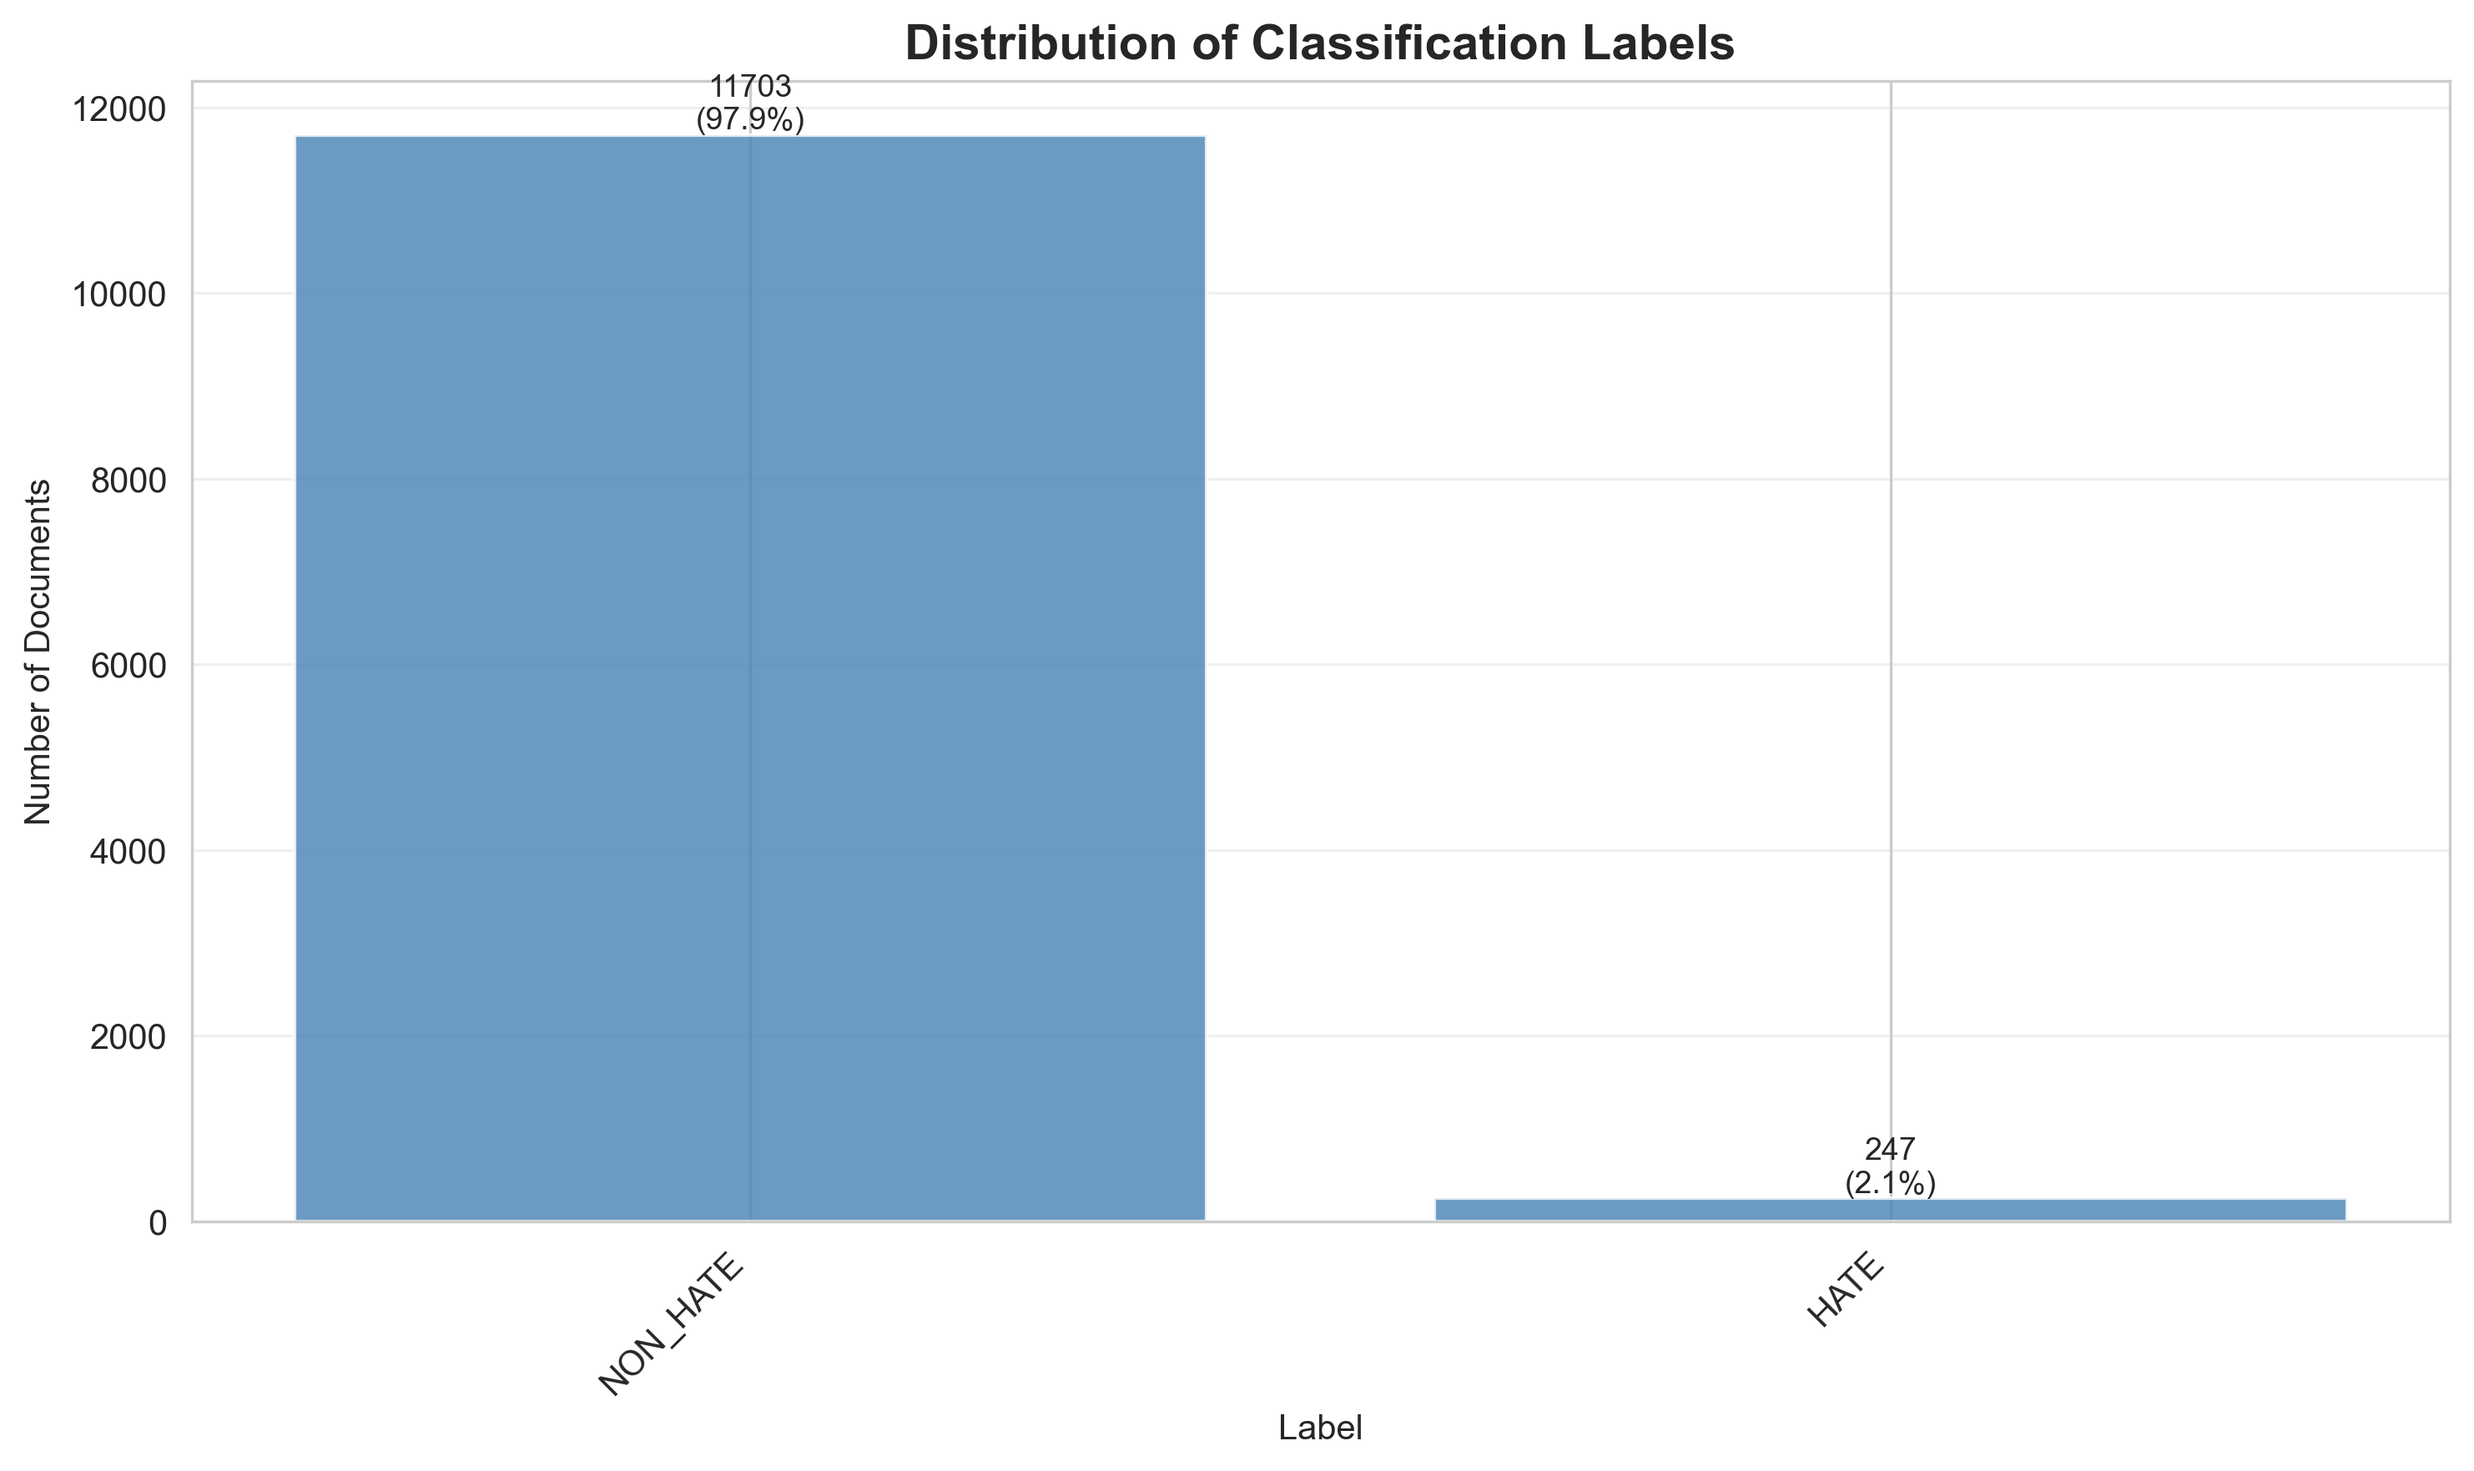
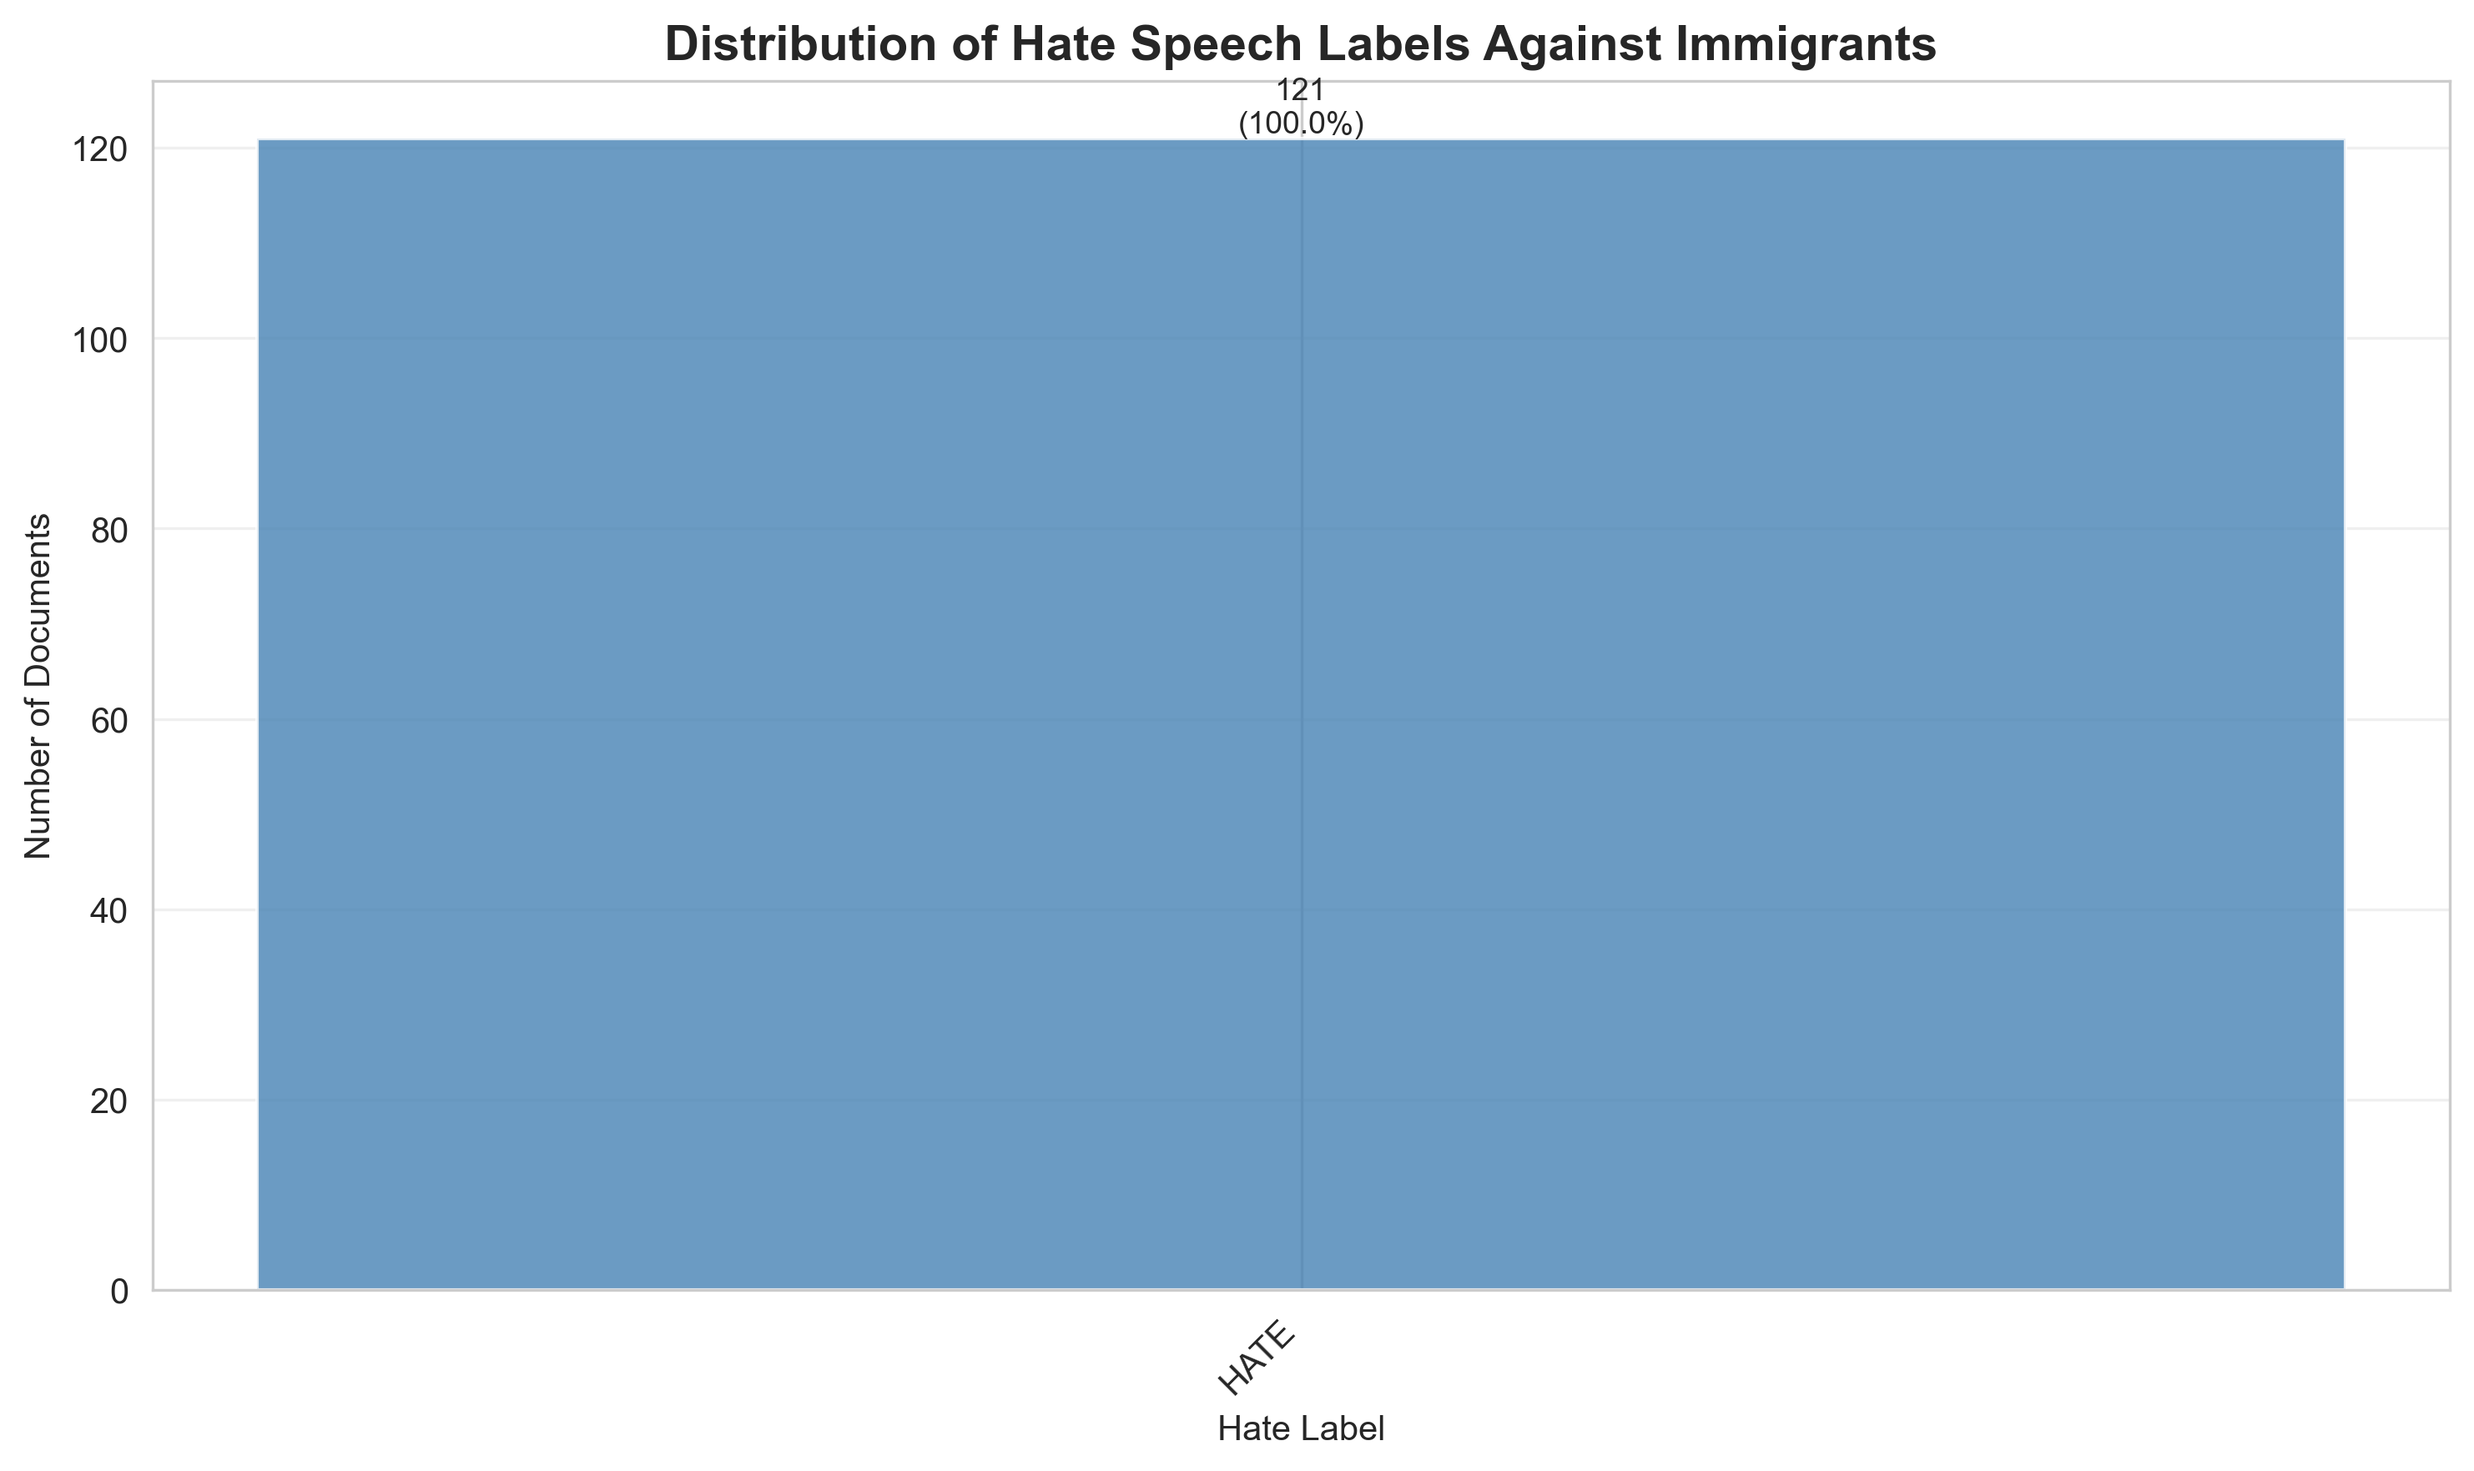
Hate speech against immigrants and political party mentions visualised

diff --git a/BERT_HessicherLandtag/src/visualise_results_immigrants.py b/BERT_HessicherLandtag/src/visualise_results_immigrants.py
@@ -1,0 +1,120 @@
+import pandas as pd
+import matplotlib.pyplot as plt
+import seaborn as sns
+import numpy as np
+from pathlib import Path
+
+# Configuration
+INPUT_PATH = r'C:\Users\gsera\OneDrive\Desktop\Masterarbeit\Masterarbeit_HessischerLandtag\BERT_HessicherLandtag\Data\prep_v1\hate_speech_against_immigrants.csv'
+OUTPUT_DIR = r'c:\Users\gsera\OneDrive\Desktop\Masterarbeit\Masterarbeit_HessischerLandtag\BERT_HessicherLandtag\Data\visualizations'
+FIGSIZE = (12, 8)
+DPI = 300
+
+# Set style
+sns.set_style("whitegrid")
+plt.rcParams['figure.figsize'] = FIGSIZE
+plt.rcParams['font.size'] = 10
+
+
+
+print("="*80)
+print("CLASSIFICATION RESULTS VISUALIZATION")
+print("="*80)
+
+# Load the classified data
+print(f"\nLoading classified data from: {INPUT_PATH}")
+df = pd.read_csv(INPUT_PATH)
+print(f"Loaded {len(df)} classified documents")
+print(f"Columns: {df.columns.tolist()}")
+
+# Create output directory if it doesn't exist
+Path(OUTPUT_DIR).mkdir(parents=True, exist_ok=True)
+
+# ============================================================================
+# EXTRACT PARTY MENTIONS
+# ============================================================================
+print("\nExtracting party mentions from documents...")
+
+# Define parties and their colors
+parties = {
+    'CDU': '#000000',      # Black
+    'SPD': '#E3000F',      # Red
+    'GRÜNE': '#64A12D',    # Green
+    'FDP': '#FFED00',      # Yellow
+    'LINKE': '#BE3075',    # Magenta
+    'AfD': '#009EE0'       # Blue
+}
+
+# Create columns for each party mention
+for party in parties.keys():
+    if party == 'GRÜNE':
+        df[party] = df['text'].str.contains(r'GRÜNE|GRÜNEN|Bündnis\s*90', case=False, regex=True, na=False)
+    else:
+        df[party] = df['text'].str.contains(party, case=False, na=False)
+
+# ============================================================================
+# 1. PARTY MENTION COUNTS
+# ============================================================================
+print("\n[1/2] Creating party mention counts plot...")
+
+fig, ax = plt.subplots(figsize=(10, 6))
+party_counts = {party: df[party].sum() for party in parties.keys()}
+party_names = list(party_counts.keys())
+counts = list(party_counts.values())
+colors = [parties[p] for p in party_names]
+
+bars = ax.bar(party_names, counts, color=colors, alpha=0.8, edgecolor='black')
+ax.set_xlabel('Political Party')
+ax.set_ylabel('Number of Documents')
+ax.set_title('Documents with Hate Speech Against Immigrants by Party Mention', fontsize=14, fontweight='bold')
+
+for bar in bars:
+    height = bar.get_height()
+    ax.text(bar.get_x() + bar.get_width()/2., height,
+            f'{int(height)}',
+            ha='center', va='bottom', fontsize=10, fontweight='bold')
+
+ax.grid(axis='y', alpha=0.3)
+plt.tight_layout()
+plt.savefig(f'{OUTPUT_DIR}/hate_speech_by_party_counts.png', dpi=DPI, bbox_inches='tight')
+plt.close()
+
+# ============================================================================
+# 2. HATE SCORE DISTRIBUTION BY PARTY (Box Plot)
+# ============================================================================
+print("\n[2/2] Creating hate score distribution by party plot...")
+
+fig, ax = plt.subplots(figsize=(12, 6))
+
+# Prepare data for box plot
+party_data = []
+party_labels = []
+party_colors = []
+
+for party in parties.keys():
+    scores = df[df[party]]['hate_score'].values
+    if len(scores) > 0:
+        party_data.append(scores)
+        party_labels.append(f'{party}\n(n={len(scores)})')
+        party_colors.append(parties[party])
+
+bp = ax.boxplot(party_data, labels=party_labels, patch_artist=True)
+
+for patch, color in zip(bp['boxes'], party_colors):
+    patch.set_facecolor(color)
+    patch.set_alpha(0.7)
+
+ax.set_xlabel('Political Party')
+ax.set_ylabel('Hate Score')
+ax.set_title('Distribution of Hate Scores by Party Mention', fontsize=14, fontweight='bold')
+ax.grid(axis='y', alpha=0.3)
+plt.tight_layout()
+plt.savefig(f'{OUTPUT_DIR}/hate_score_distribution_by_party.png', dpi=DPI, bbox_inches='tight')
+plt.close()
+
+print("\n" + "="*80)
+print("VISUALIZATION COMPLETE")
+print(f"Output saved to: {OUTPUT_DIR}/")
+print("  - hate_speech_by_party_counts.png")
+print("  - hate_score_distribution_by_party.png")
+print("="*80)

diff --git a/BERT_HessicherLandtag/src/dashboard.py b/BERT_HessicherLandtag/src/dashboard.py
@@ -153,12 +153,13 @@ with col5:
 st.markdown("---")
 
 # Create tabs
-tab1, tab2, tab3, tab4, tab5 = st.tabs([
+tab1, tab2, tab3, tab4, tab5, tab6 = st.tabs([
     "📈 Label Distribution",
     "🎯 Confidence Analysis",
     "📝 Text Analysis",
     "🔎 Document Explorer",
-    "📊 Advanced Analytics"
+    "📊 Advanced Analytics",
+    "🚨 Hate Speech Against Immigrants"
 ])
 
 # TAB 1: Label Distribution
